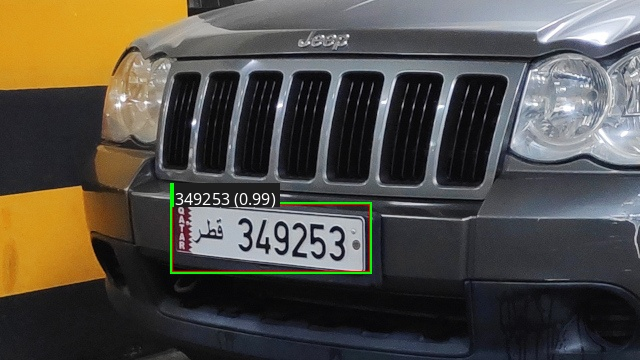
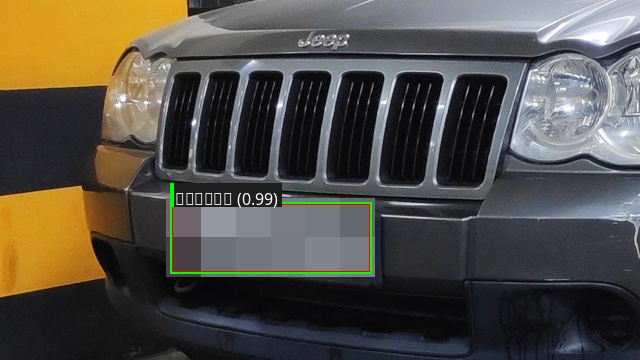
Correct imagery note; redact registration in demo
The previous note stated the training imagery was contributed 'without consent
obtained'. That is contradicted by the application's own upload notice, which
tells users images are retained and may be used for training. Replacing it with
a plain statement of what is published and what is not.

The demo image published a legible registration number while the same card
claimed imagery is not redistributed. The plate is now pixelated and the
recognised text masked in the overlay label; the caption says so.

Changed region(s): [[0.25, 0.5194, 0.5938, 0.7944]]

diff --git a/README.md b/README.md
@@ -40,18 +40,22 @@ not written by hand.
 Detected and read by the weights in this repository, using the project's own
 public test image (`open-lpr/blackbox/jeep.jpg`, 640×360):
 
-![Plate detected and read as 349253](docs/demo-jeep-detection.jpg)
+![Plate detected, registration redacted](docs/demo-jeep-detection.jpg)
 
 | | |
 |---|---|
 | plate box | confidence **0.875** |
-| text read | `349253`, confidence **0.99** |
+| text read | 6 characters, confidence **0.99** |
 | end-to-end | **110 ms** (cold, CPU, `onnxruntime`) |
 
-**What this demo does not show.** The plate also carries the Arabic word
-`قطر`, which was **not** transcribed — the default `alphanumeric` charset
-profile emits only alphanumerics, so non-Latin characters are stripped by
-configuration, not by failure. The numeric part is read correctly. This is a
+The registration is pixelated and the recognised text is masked in this image,
+because a model card should not republish a real plate number. The recogniser
+read it correctly; only the display is redacted.
+
+**What this demo does not show.** The plate also carries Arabic script, which was
+**not** transcribed — the default `alphanumeric` charset profile emits only
+alphanumerics, so non-Latin characters are stripped by configuration, not by
+failure. This is a
 single image and is not evidence of accuracy; see below.
 
 ## Measured accuracy
@@ -163,14 +167,12 @@ plates.**
 
 ## Training imagery is not published
 
-The photographs this model was trained on are community-contributed images
-containing **real licence plates, faces and vehicles**, uploaded without consent
-obtained. Publishing them would create a searchable index of real registration
-numbers, which is a privacy harm the licence terms cannot excuse.
+The detector was trained on community-contributed photographs of real vehicles.
+They are not redistributed here, because that would distribute real licence plate
+numbers at scale.
 
-The reusable contribution is the tooling — dataset conversion, evaluation and
-export in `lpr_app/ml/` in the `open-lpr` repository — and it is already public
-and needs none of that imagery to be useful.
+The tooling used to prepare them is public in `lpr_app/ml/` in the `open-lpr`
+repository, and needs no imagery to be useful.
 
 ## Licence
 
